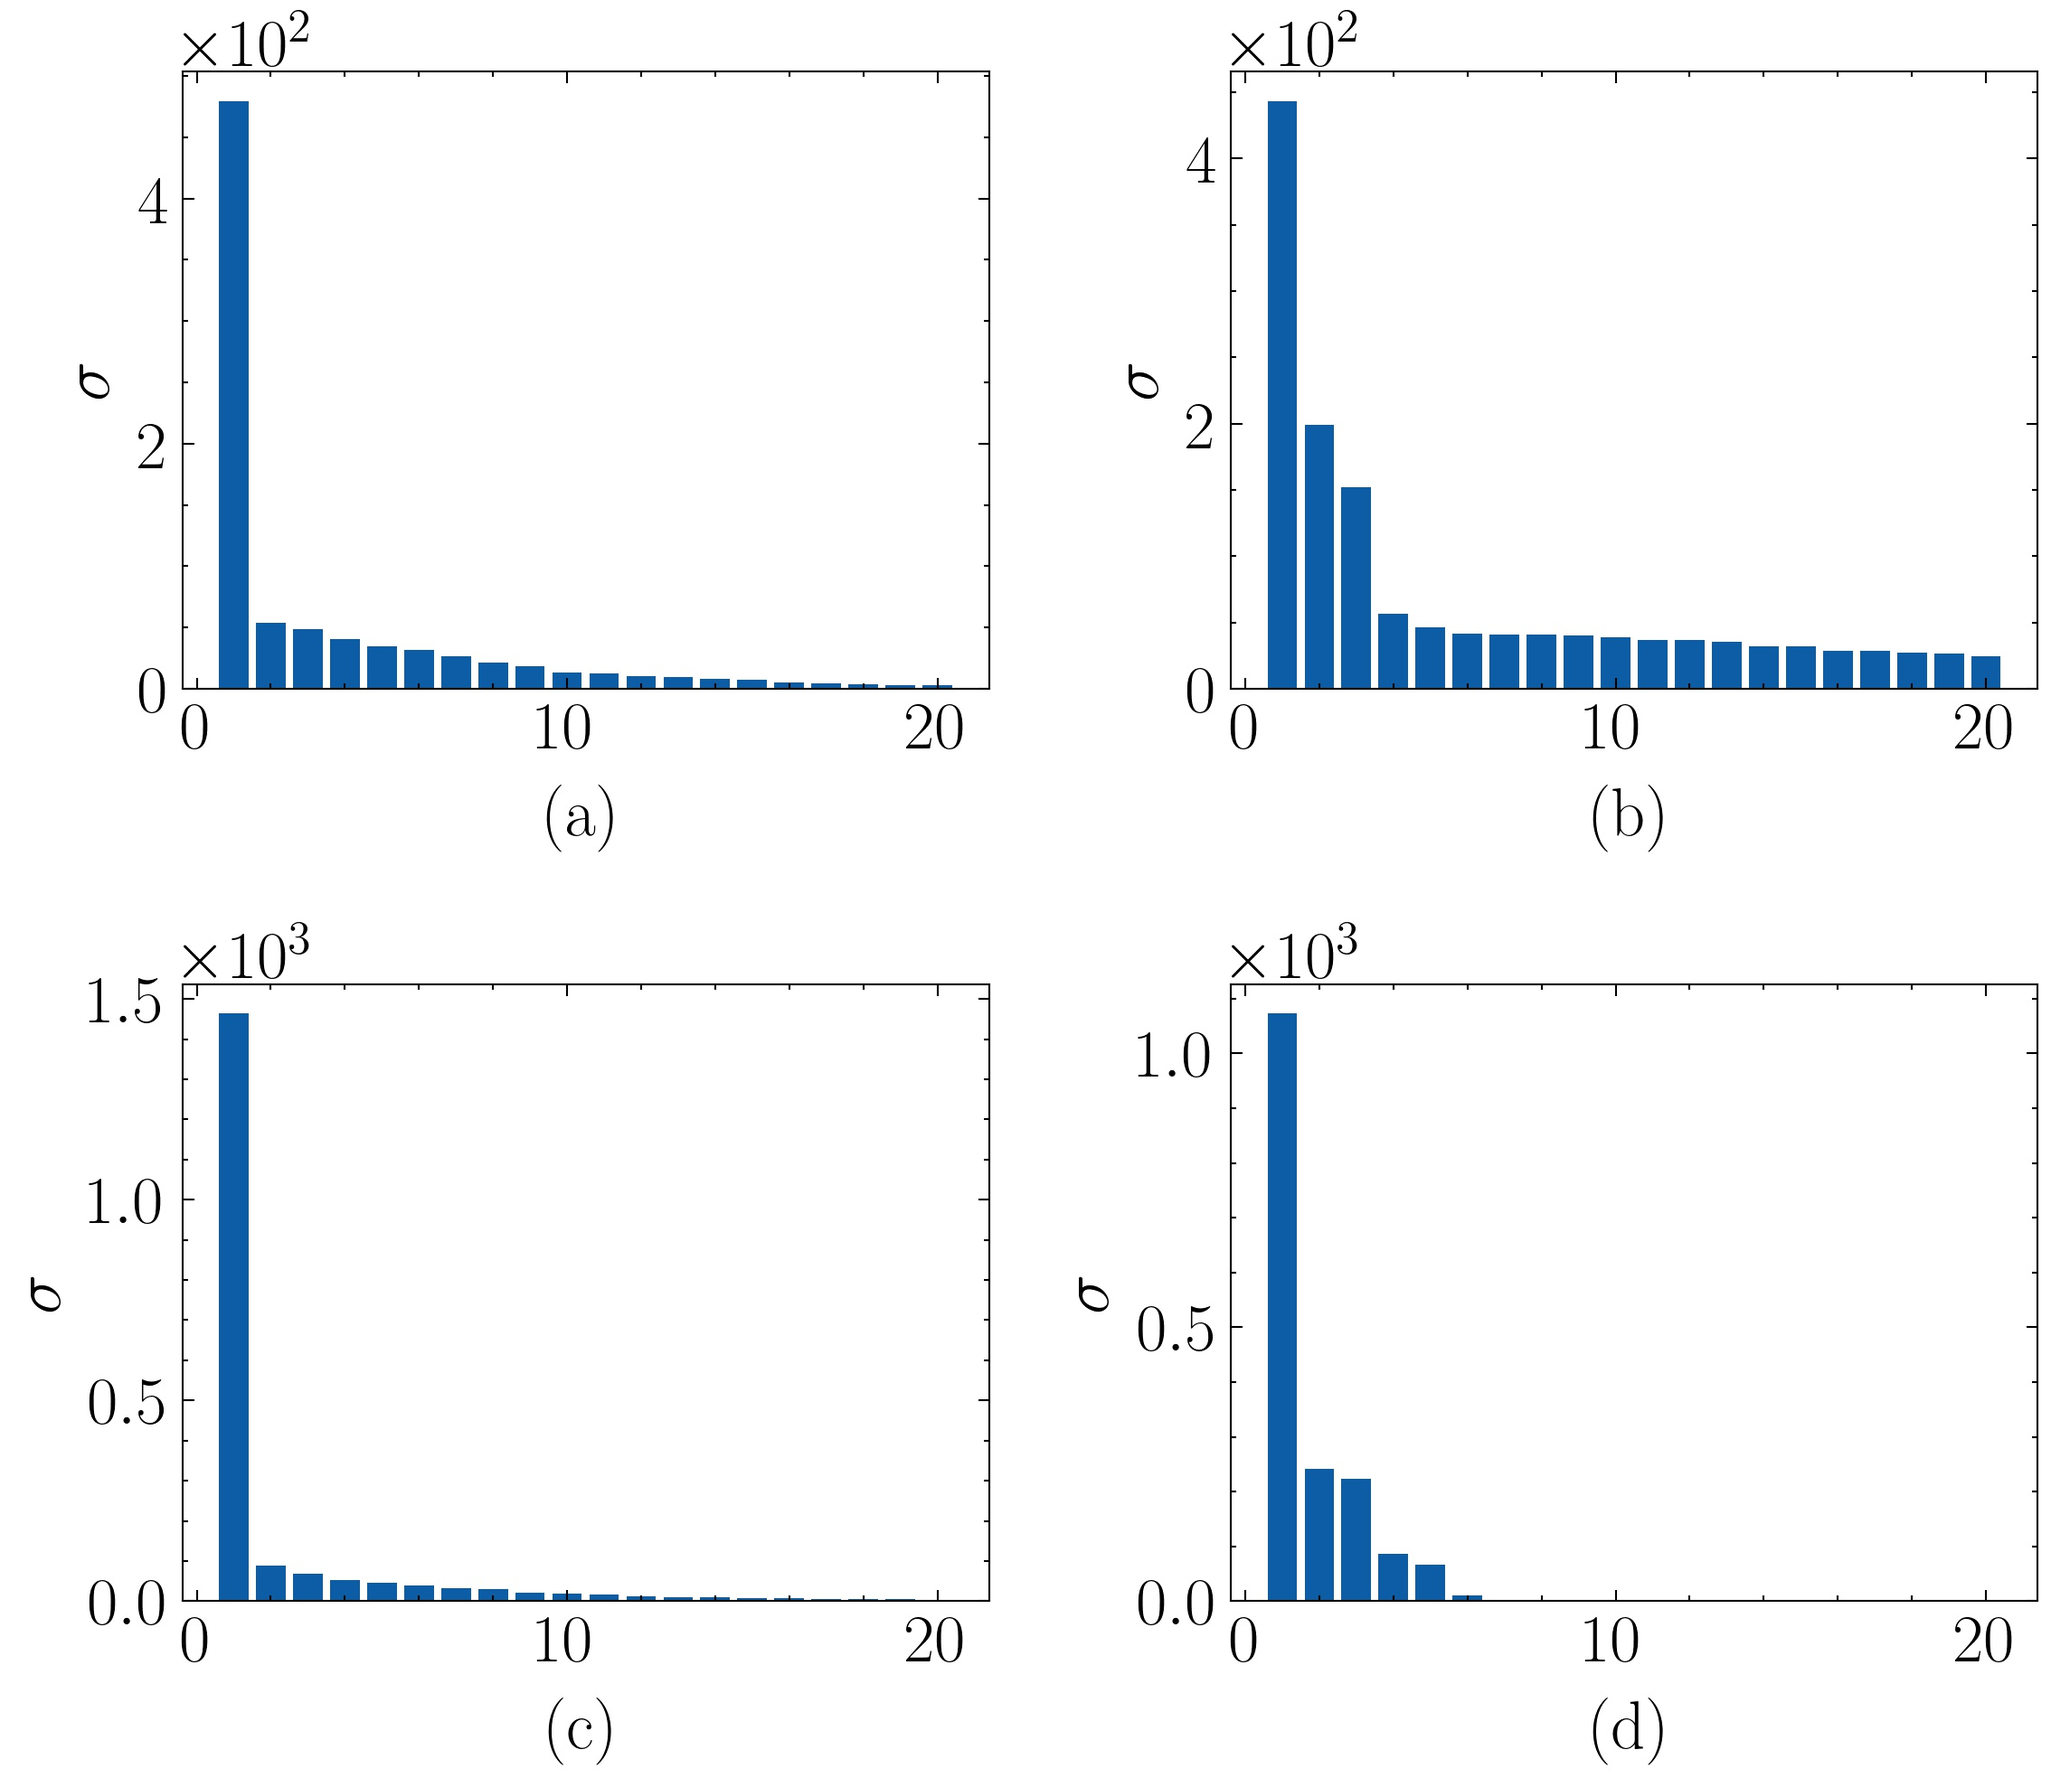
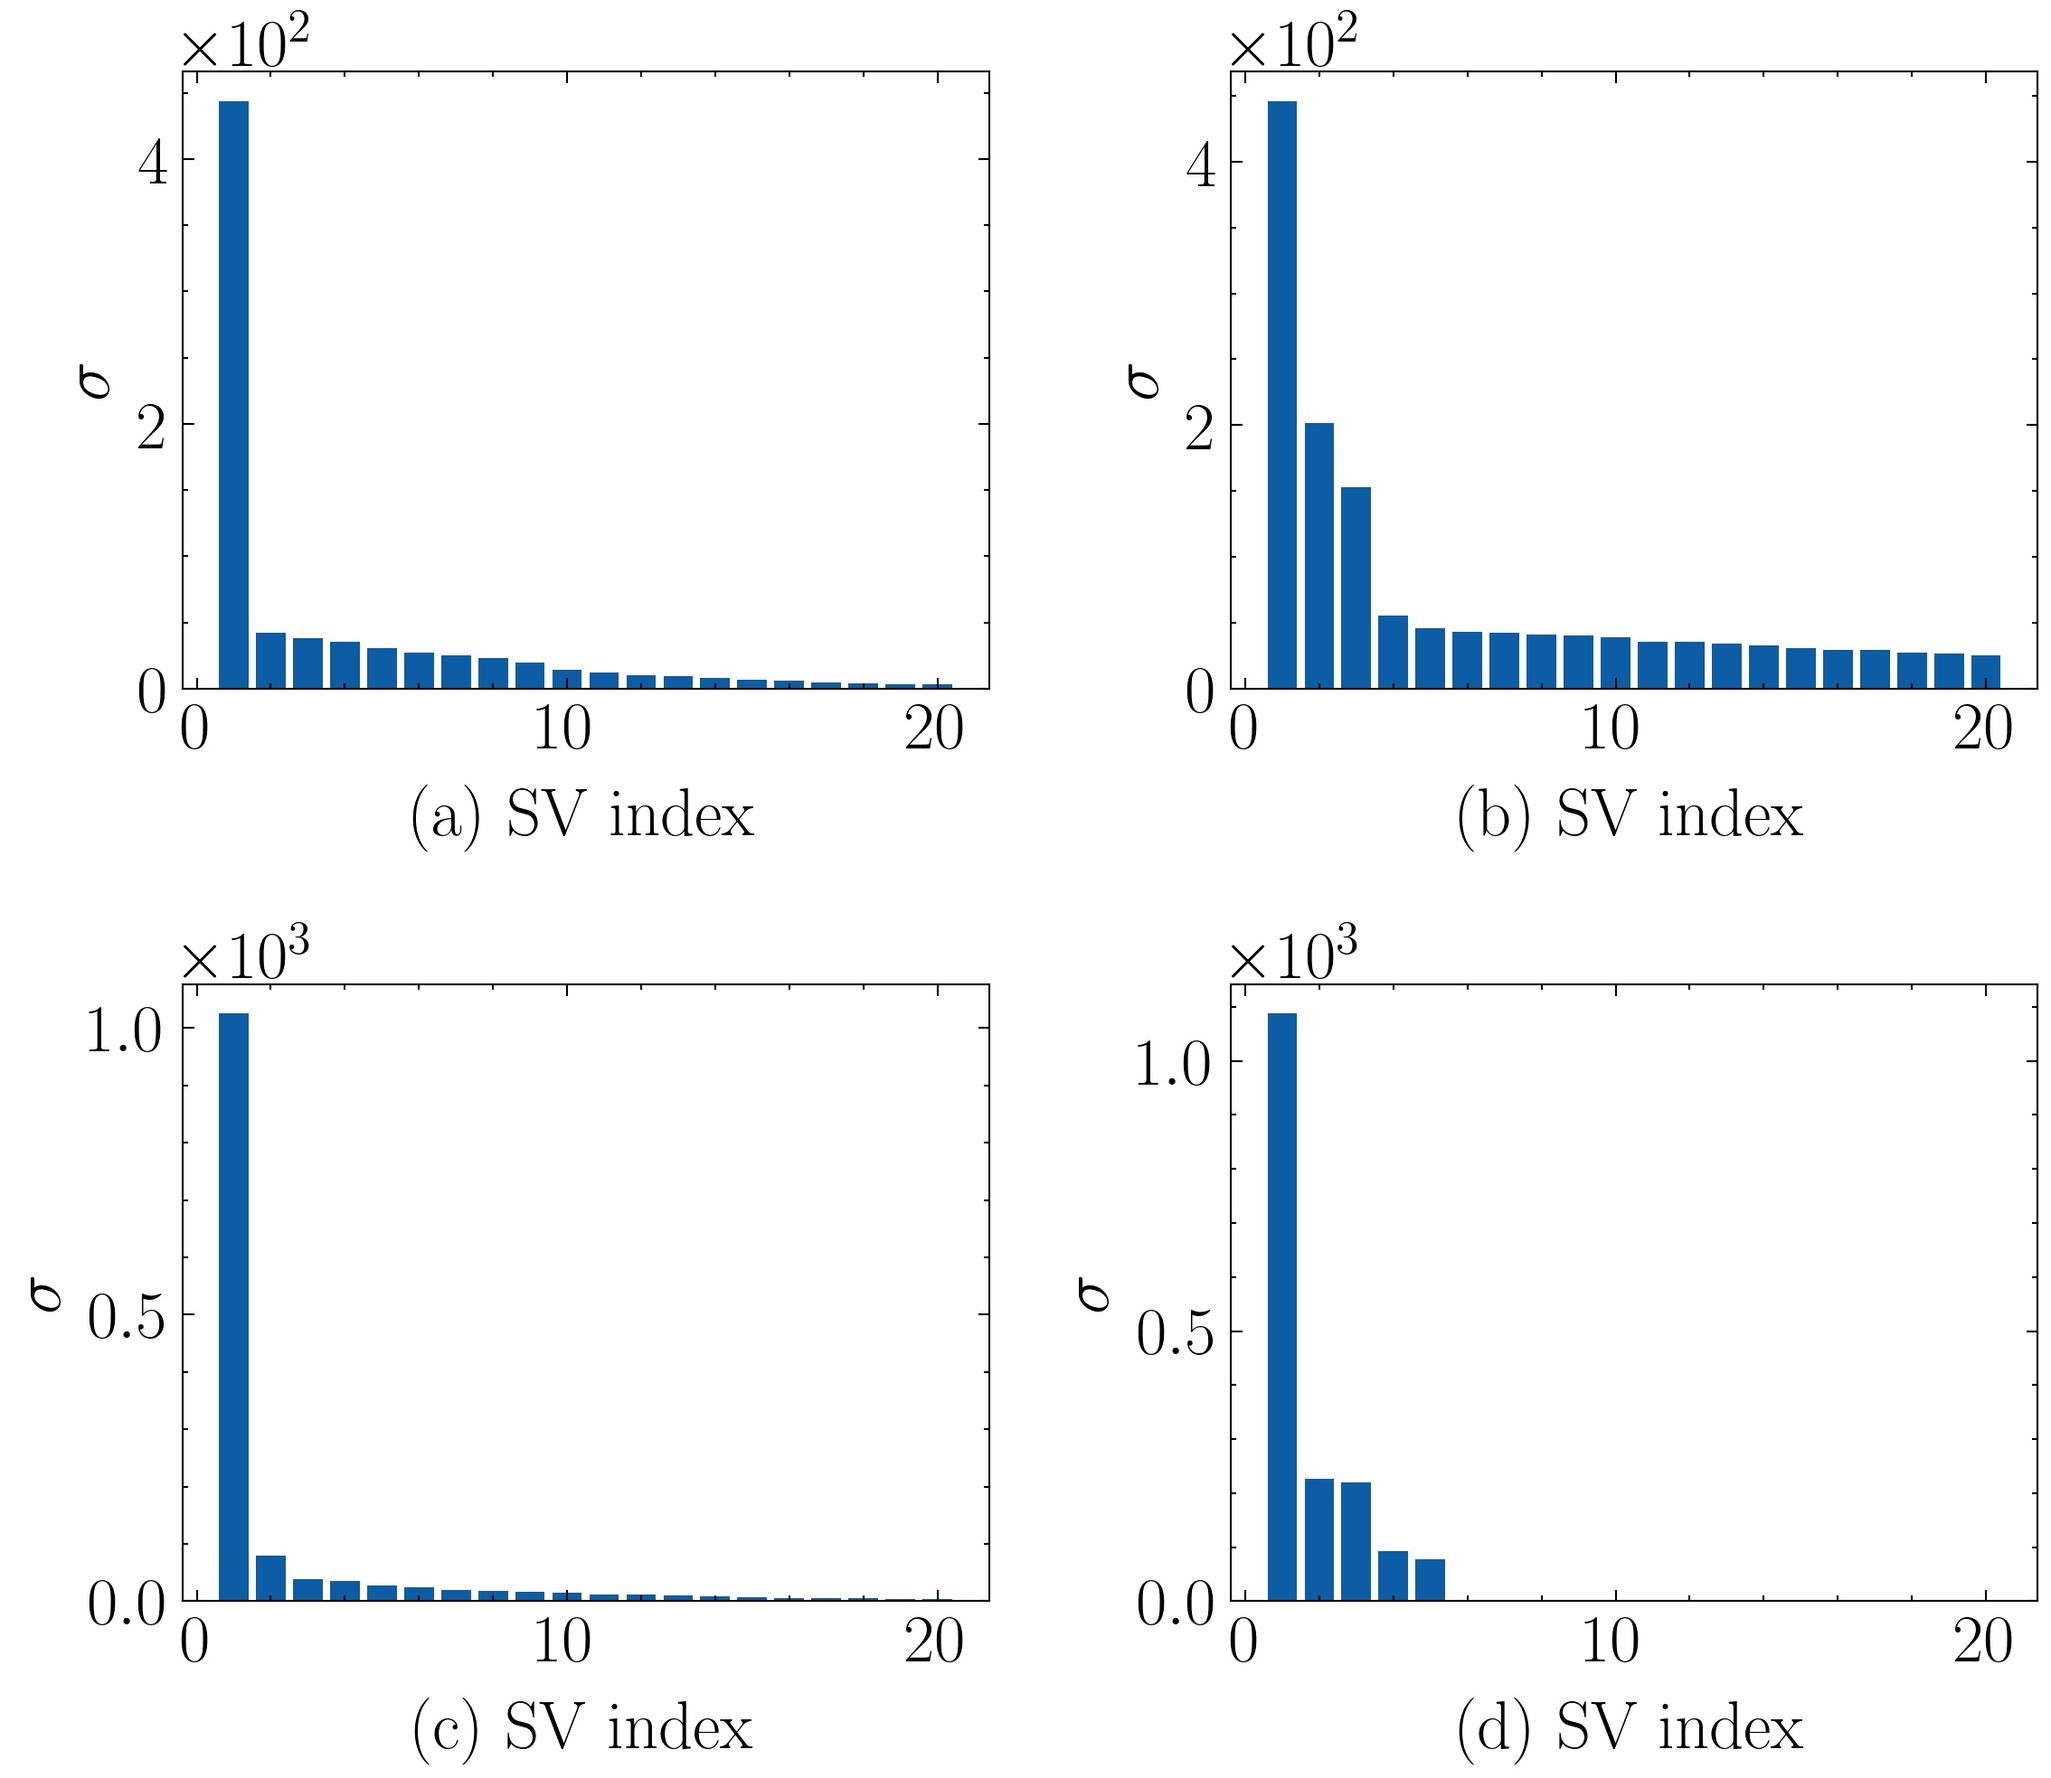
feature: new axes params

diff --git a/5_methods_comparison.py b/5_methods_comparison.py
@@ -451,7 +451,7 @@ with plt.style.context(['science'], ['ieee']):
     axes[0].plot(pend_steps_mlr, color='g')
     axes[0].plot(pend_steps_tlr, color='y')
     axes[0].set_xlabel("Episodes", labelpad=4)
-    axes[0].set_ylabel("(a) # Steps")
+    axes[0].set_ylabel("(a) $\# Steps$")
     axes[0].ticklabel_format(style = 'sci', axis='y', scilimits=(0,0))
     axes[0].set_xlim(0, 5000)
     axes[0].legend(labels, fontsize=12)
@@ -462,7 +462,7 @@ with plt.style.context(['science'], ['ieee']):
     axes[1].plot(cart_steps_mlr, color='g')
     axes[1].plot(cart_steps_tlr, color='y')
     axes[1].set_xlabel("Episodes", labelpad=4)
-    axes[1].set_ylabel("(b) # Steps")
+    axes[1].set_ylabel("(b) $\# Steps$")
     axes[1].ticklabel_format(style = 'sci', axis='y', scilimits=(0,0))
     axes[1].set_xlim(0, 40000)
     axes[1].legend(labels, fontsize=12)
@@ -473,9 +473,8 @@ with plt.style.context(['science'], ['ieee']):
     axes[2].plot(mount_steps_mlr, color='g')
     axes[2].plot(mount_steps_tlr, color='y')
     axes[2].set_xlabel("Episodes", labelpad=4)
-    axes[2].set_ylabel("(c) # Steps")
+    axes[2].set_ylabel("(c) $\# Steps$")
     axes[2].ticklabel_format(style = 'sci', axis='y', scilimits=(0,0))
-    axes[2].set_ylim(50, 10000)
     axes[2].set_xlim(0, 5000)
     axes[2].legend(labels, fontsize=12)
     axes[2].grid()
@@ -485,7 +484,7 @@ with plt.style.context(['science'], ['ieee']):
     axes[3].plot(goddard_steps_mlr, color='g')
     axes[3].plot(goddard_steps_tlr, color='y')
     axes[3].set_xlabel("Episodes", labelpad=4)
-    axes[3].set_ylabel("(d) # Steps")
+    axes[3].set_ylabel("(d) $\# Steps$")
     axes[3].ticklabel_format(style = 'sci', axis='y', scilimits=(0,0))
     axes[3].set_ylim(180, 500)
     axes[3].set_xlim(0, 50000)

diff --git a/1_svd_policy_iteration.py b/1_svd_policy_iteration.py
@@ -34,25 +34,25 @@ with plt.style.context(['science'], ['ieee']):
     axes = axes.flatten()
 
     axes[0].bar(np.arange(1, len(sigma_frozenlake) + 1), sigma_frozenlake)
-    axes[0].set_xlabel("(a)")
+    axes[0].set_xlabel("(a) SV index")
     axes[0].set_ylabel("$\sigma$")
     axes[0].ticklabel_format(style = 'sci', axis='y', scilimits=(0,0))
     axes[0].xaxis.get_major_locator().set_params(integer=True)
 
     axes[1].bar(np.arange(1, len(sigma_racetrack) + 1), sigma_racetrack)
-    axes[1].set_xlabel("(b)")
+    axes[1].set_xlabel("(b) SV index")
     axes[1].set_ylabel("$\sigma$")
     axes[1].ticklabel_format(style = 'sci', axis='y', scilimits=(0,0))
     axes[1].xaxis.get_major_locator().set_params(integer=True)
 
     axes[2].bar(np.arange(1, len(sigma_rental) + 1), sigma_rental)
-    axes[2].set_xlabel("(c)")
+    axes[2].set_xlabel("(c) SV index")
     axes[2].set_ylabel("$\sigma$")
     axes[2].ticklabel_format(style = 'sci', axis='y', scilimits=(0,0))
     axes[2].xaxis.get_major_locator().set_params(integer=True)
 
     axes[3].bar(np.arange(1, len(sigma_taxi) + 1), sigma_taxi)
-    axes[3].set_xlabel("(d)")
+    axes[3].set_xlabel("(d) SV index")
     axes[3].set_ylabel("$\sigma$")
     axes[3].ticklabel_format(style = 'sci', axis='y', scilimits=(0,0))
     axes[3].xaxis.get_major_locator().set_params(integer=True)

diff --git a/2_svd_q_learning.py b/2_svd_q_learning.py
@@ -151,22 +151,22 @@ with plt.style.context(['science'], ['ieee']):
     axes = axes.flatten()
 
     axes[0].bar(np.arange(1, len(sigma_pendulum) + 1), sigma_pendulum)
-    axes[0].set_xlabel("(a)", labelpad=6)
+    axes[0].set_xlabel("(a) SV index", labelpad=6)
     axes[0].set_ylabel("$\sigma$")
     axes[0].ticklabel_format(style = 'sci', axis='y', scilimits=(0,0))
 
     axes[1].bar(np.arange(1, len(sigma_cartpole) + 1), sigma_cartpole)
-    axes[1].set_xlabel("(b)", labelpad=6)
+    axes[1].set_xlabel("(b) SV index", labelpad=6)
     axes[1].set_ylabel("$\sigma$")
     axes[1].ticklabel_format(style = 'sci', axis='y', scilimits=(0,0))
 
     axes[2].bar(np.arange(1, len(sigma_mountaincar) + 1), sigma_mountaincar)
-    axes[2].set_xlabel("(c)", labelpad=6)
+    axes[2].set_xlabel("(c) SV index", labelpad=6)
     axes[2].set_ylabel("$\sigma$")
     axes[2].ticklabel_format(style = 'sci', axis='y', scilimits=(0,0))
 
     axes[3].bar(np.arange(1, len(sigma_acrobot) + 1), sigma_acrobot)
-    axes[3].set_xlabel("(d)", labelpad=6)
+    axes[3].set_xlabel("(d) SV index", labelpad=6)
     axes[3].set_ylabel("$\sigma$")
     axes[3].ticklabel_format(style = 'sci', axis='y', scilimits=(0,0))
 
